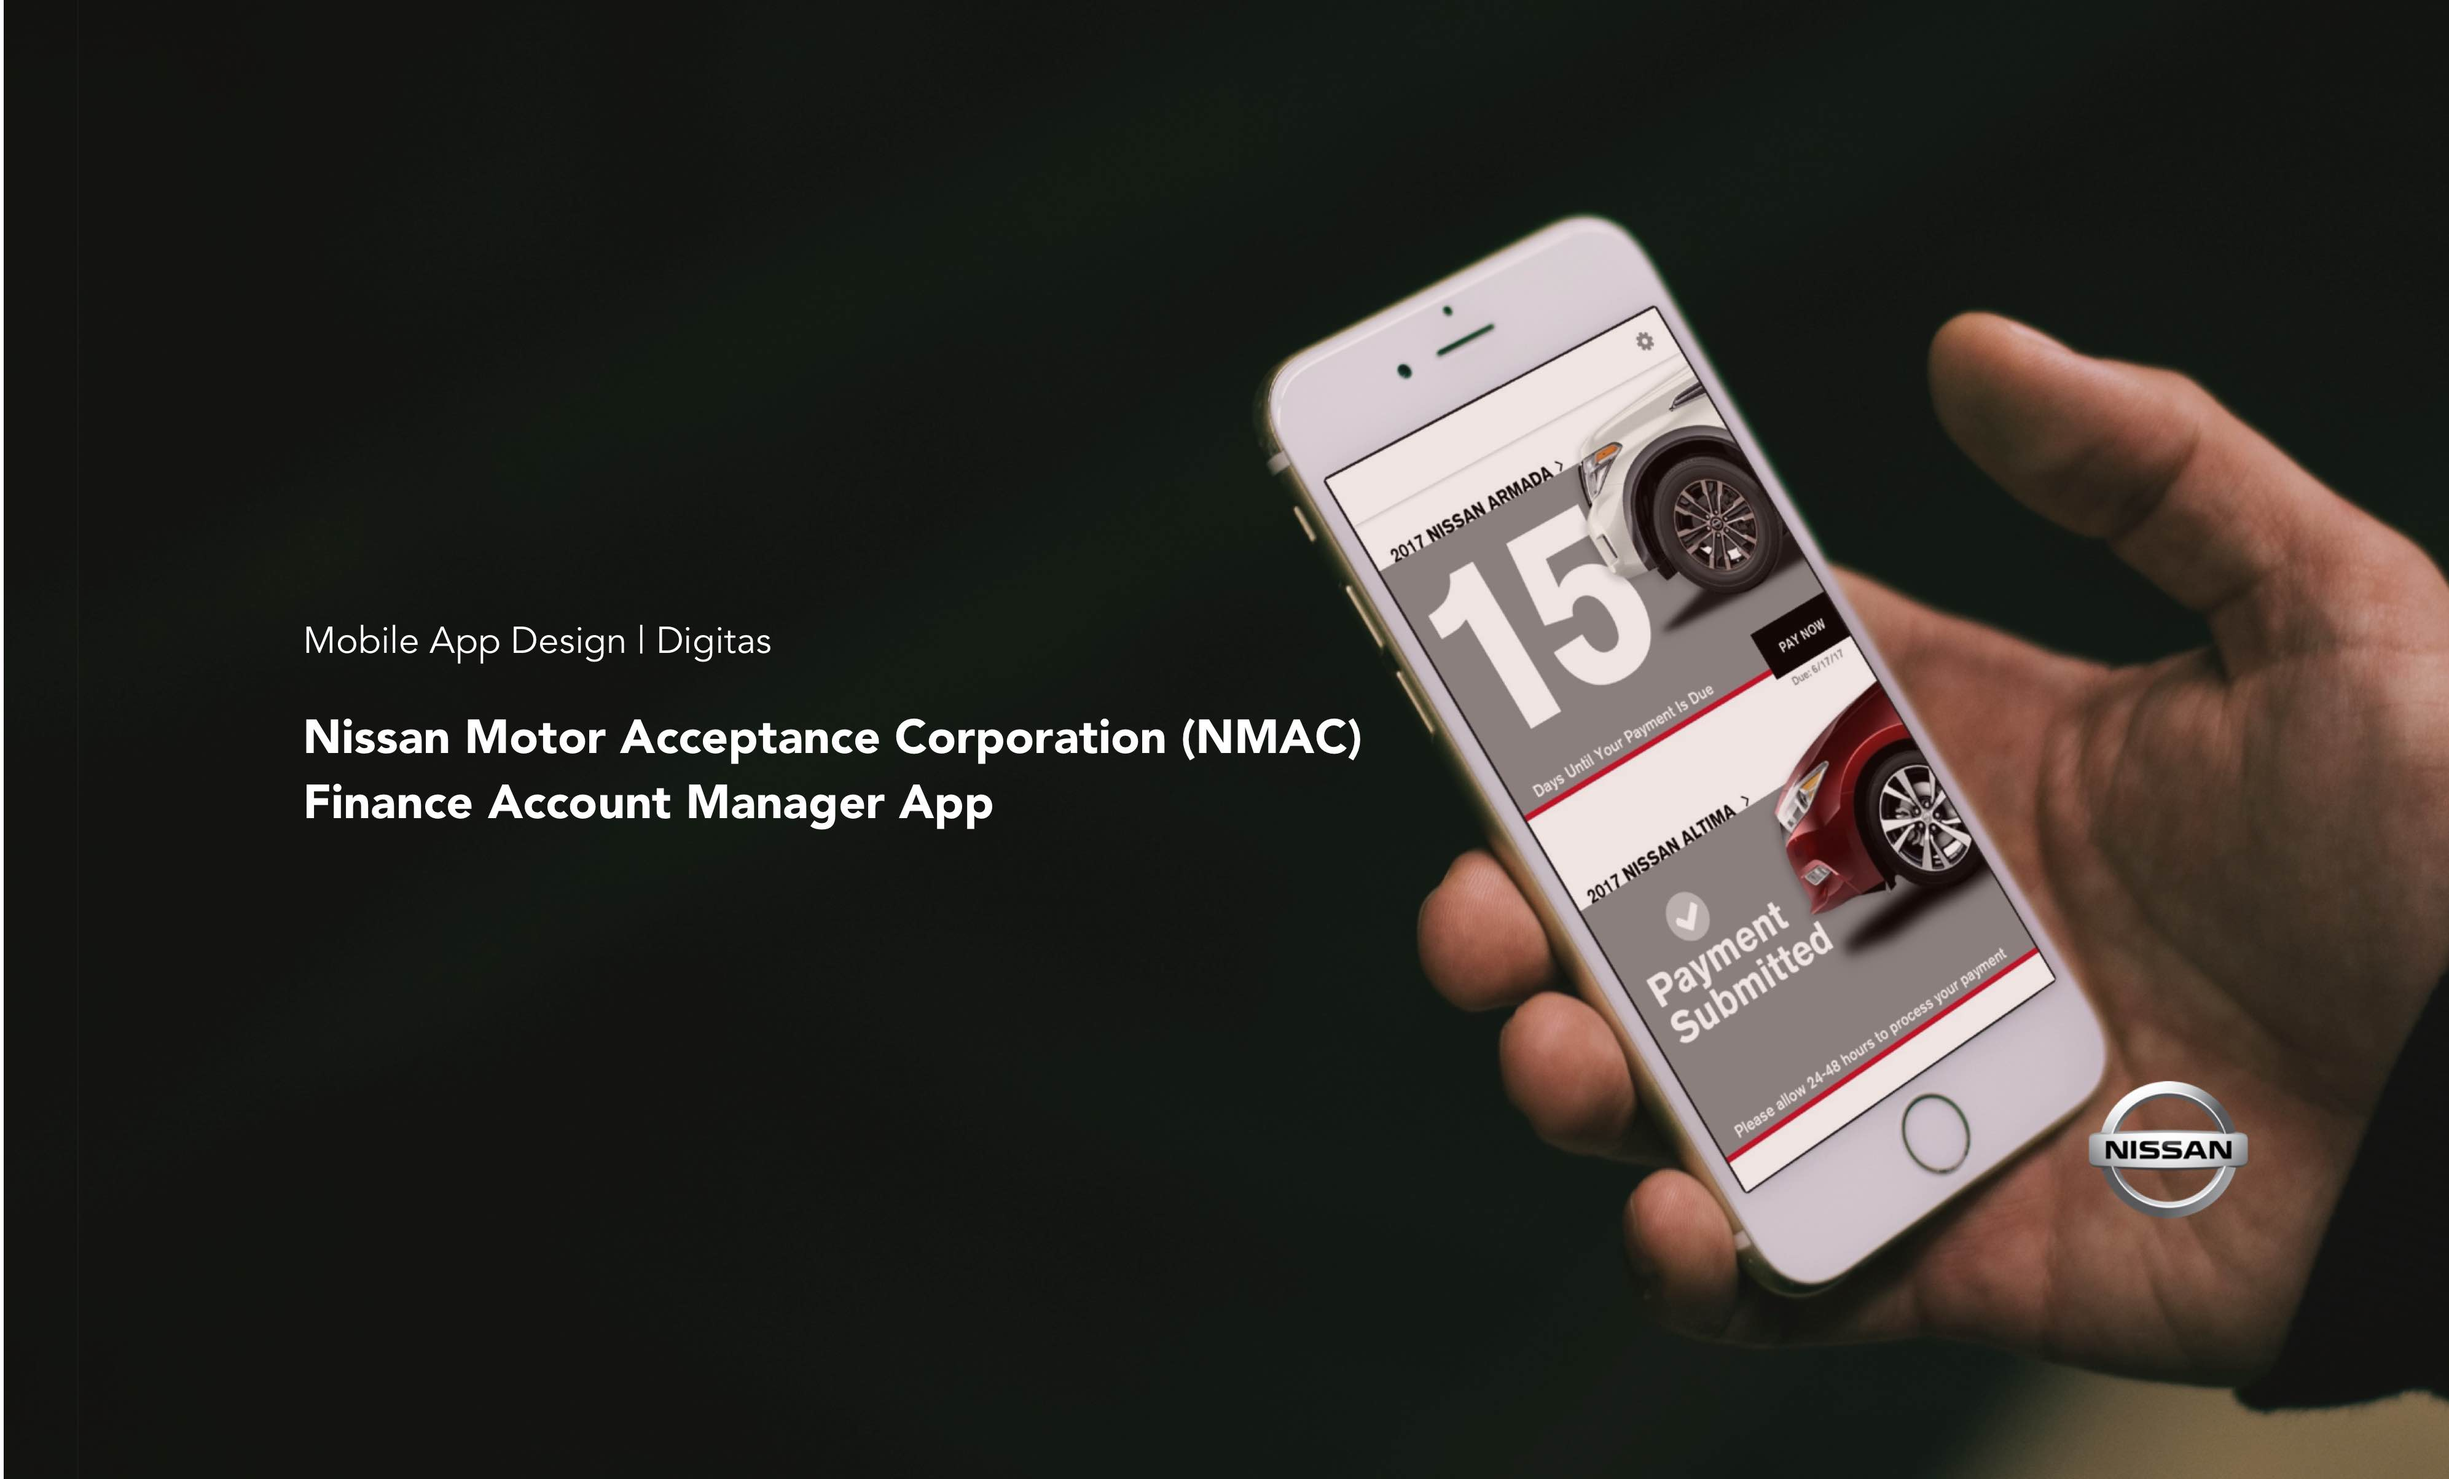
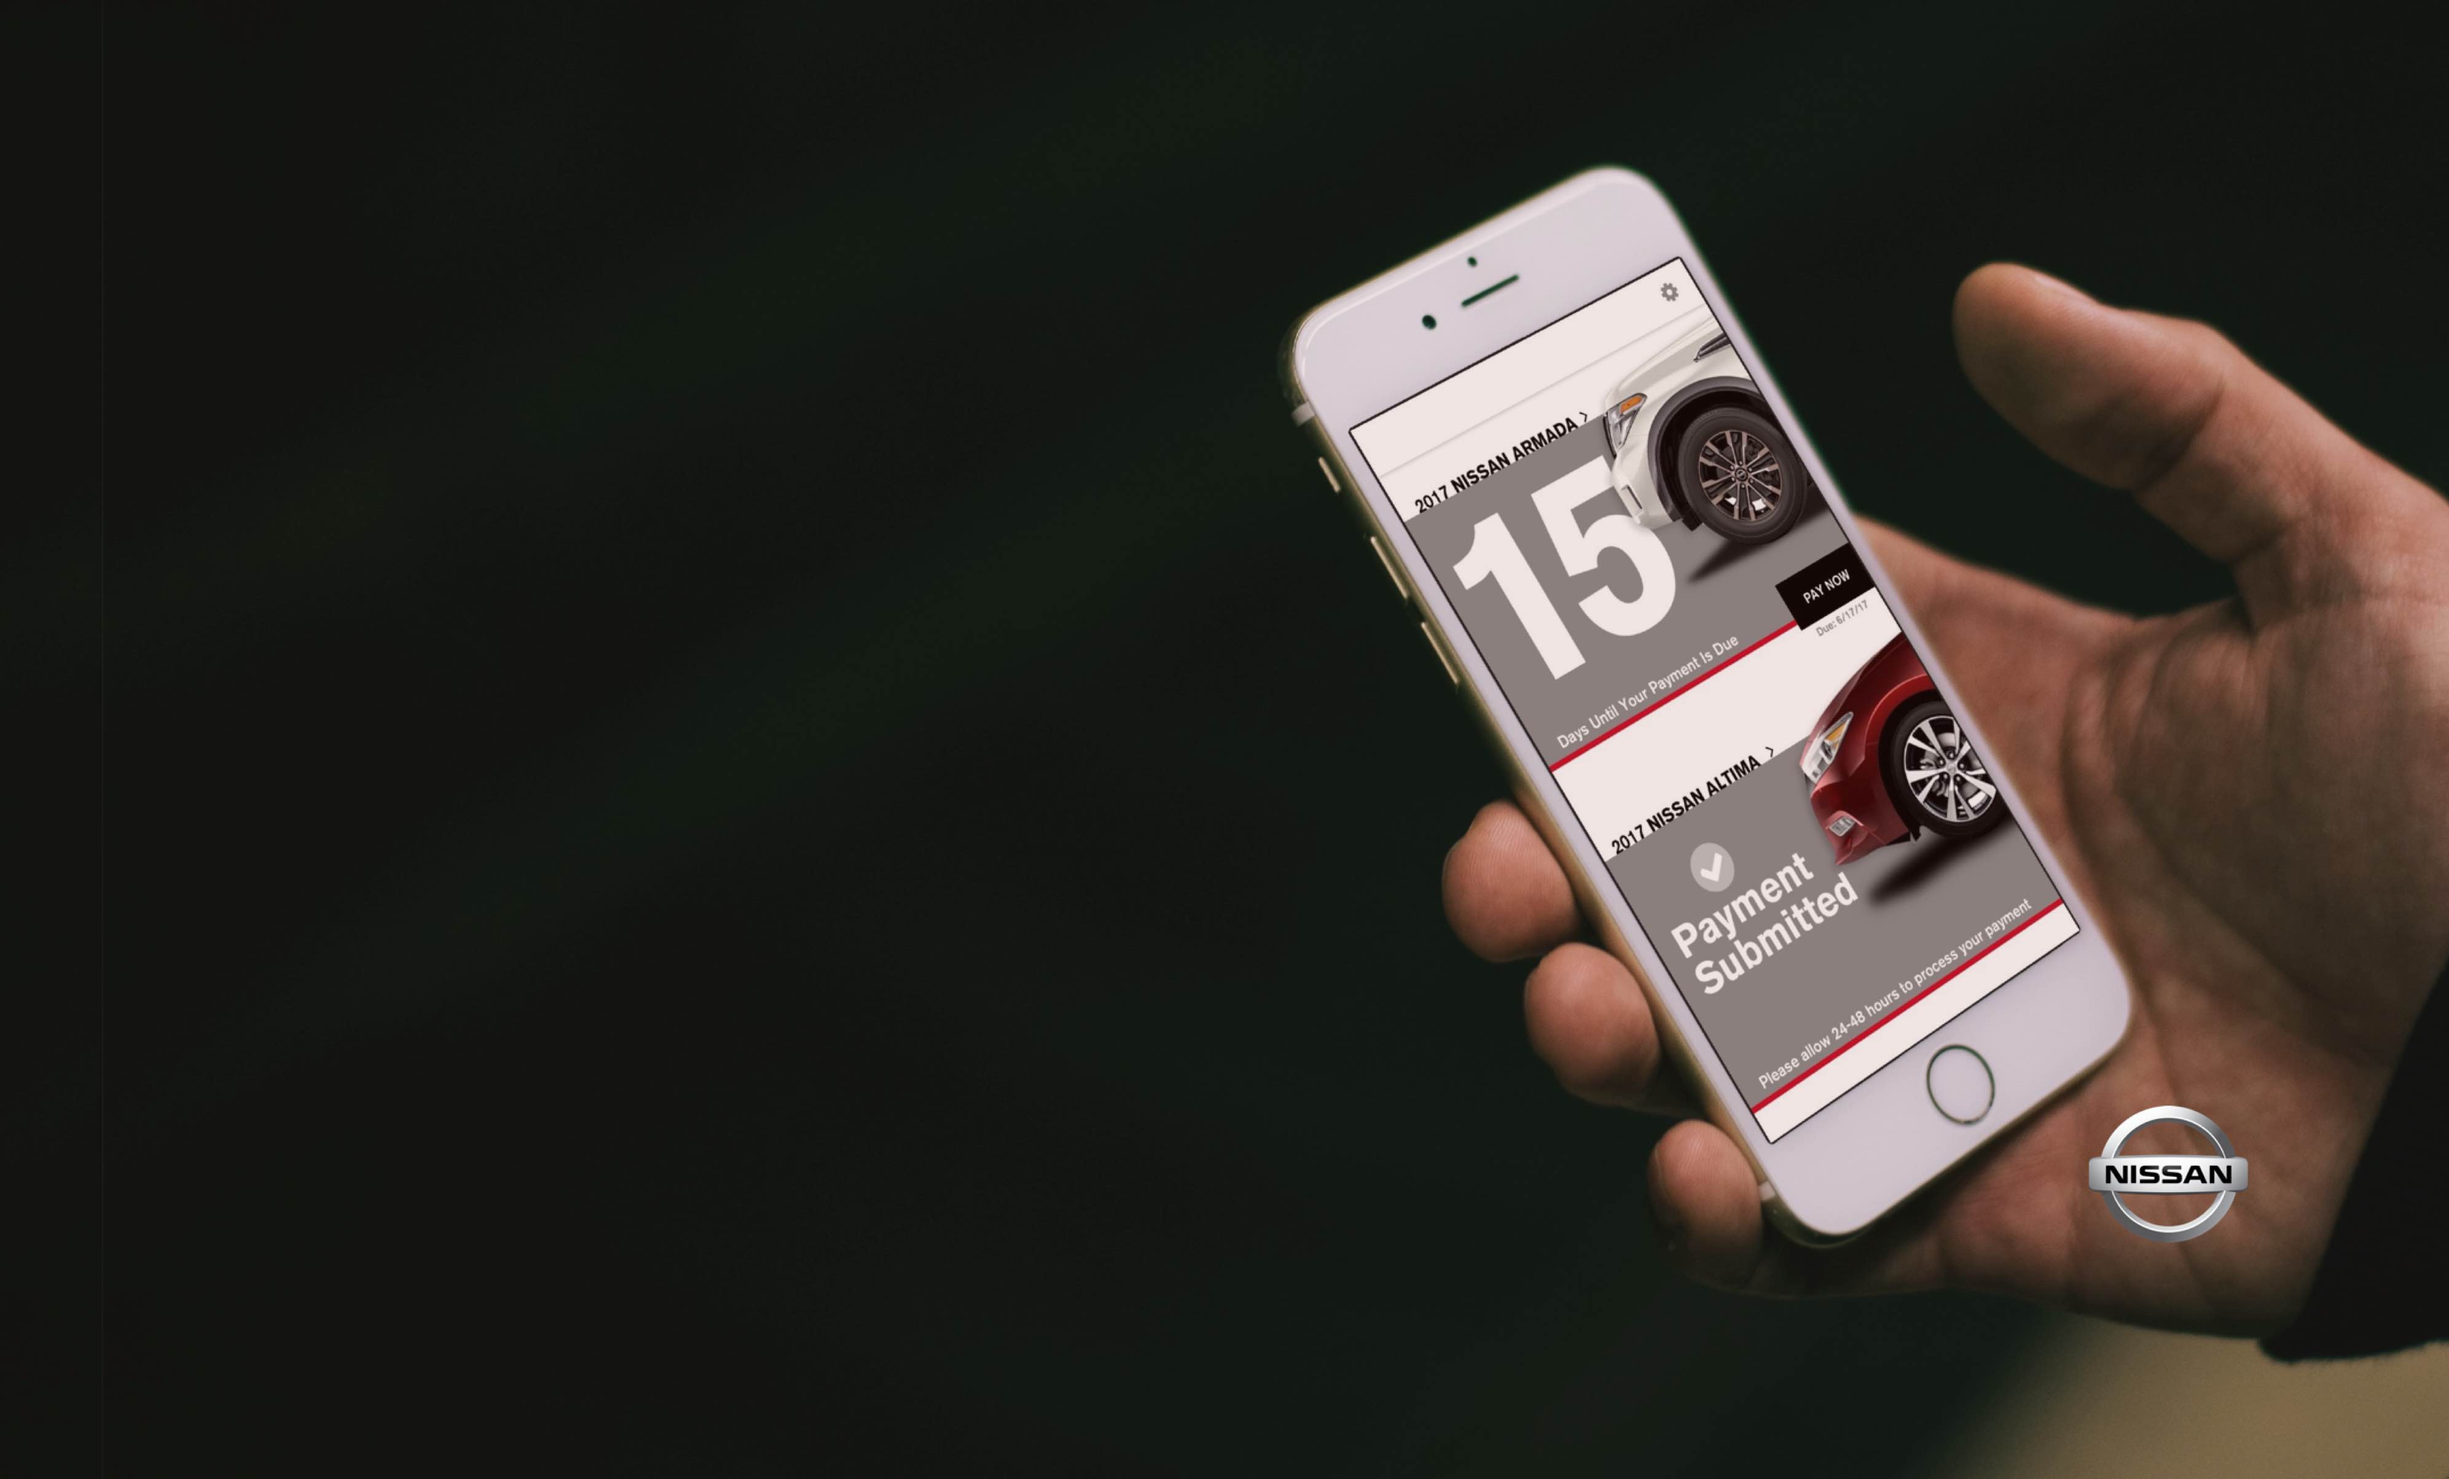
Nissan cover updates

Changed region(s): [[0.1244, 0.0934, 1.0, 0.9655], [0.28, 0.4049, 0.3111, 0.436], [0.1244, 0.4049, 0.1555, 0.436]]

diff --git a/nissan.html b/nissan.html
@@ -91,11 +91,19 @@
 
                 <div class="container align-vertical">
                     <div class="row">
-                        <div class="col-sm-6 col-md-4" style ="padding-top:300px;padding-left:60px;">
-                            <a href="https://apps.apple.com/us/app/nmac-account-manager/id1046594742?mt=8" style="display:inline-block;overflow:hidden;background:url(https://linkmaker.itunes.apple.com/en-us/badge-lrg.svg?releaseDate=2015-10-15&kind=iossoftware&bubble=ios_apps) no-repeat;width:135px;height:40px;margin-left:10px;"></a>
-                            <a href='https://play.google.com/store/apps/details?id=com.nissan.nmacmanager&hl=en_US&pcampaignid=MKT-Other-global-all-co-prtnr-py-PartBadge-Mar2515-1'><img alt='Get it on Google Play' style="width:155px;display:inline-block;margin-bottom:30px;" src='https://play.google.com/intl/en_us/badges/images/generic/en_badge_web_generic.png'/></a>
+                        <div class="col-sm-6 col-md-6 col-sm-offset-1" style ="padding-top:40px;padding-left:0;">
+                              <div class="section-title-sm" style="font-weight:500; color:#fff; font-size:20px";>
+                                  Mobile App Design &nbsp|&nbsp Digitas
+                              </div>
+                              <div class="section-title-sm" style="font-weight:900; line-height: 42px;color:#fff; font-size:27px";>
+                                  Nissan Motor Acceptance Corporation (NMAC)
+                                  <br>Finance Account Management App
+                              </div>
+
+                              <a href="https://apps.apple.com/us/app/nmac-account-manager/id1046594742?mt=8" style="display:inline-block;overflow:hidden;background:url(https://linkmaker.itunes.apple.com/en-us/badge-lrg.svg?releaseDate=2015-10-15&kind=iossoftware&bubble=ios_apps) no-repeat;width:135px;height:40px;margin-top:60px"></a>
+                              <a href='https://play.google.com/store/apps/details?id=com.nissan.nmacmanager&hl=en_US&pcampaignid=MKT-Other-global-all-co-prtnr-py-PartBadge-Mar2515-1'><img alt='Get it on Google Play' style="width:155px;display:inline-block;margin-bottom:30px;" src='https://play.google.com/intl/en_us/badges/images/generic/en_badge_web_generic.png'/></a>
                             <!-- <a class="btn-jool btn btn-rounded btn-lg" width="150px" href="http://www.joolapp.com" target="_blank" role="button">VISIT THE SITE</a> -->
-                            </strong>
+
                         </div>
                     </div>
                 </div>
